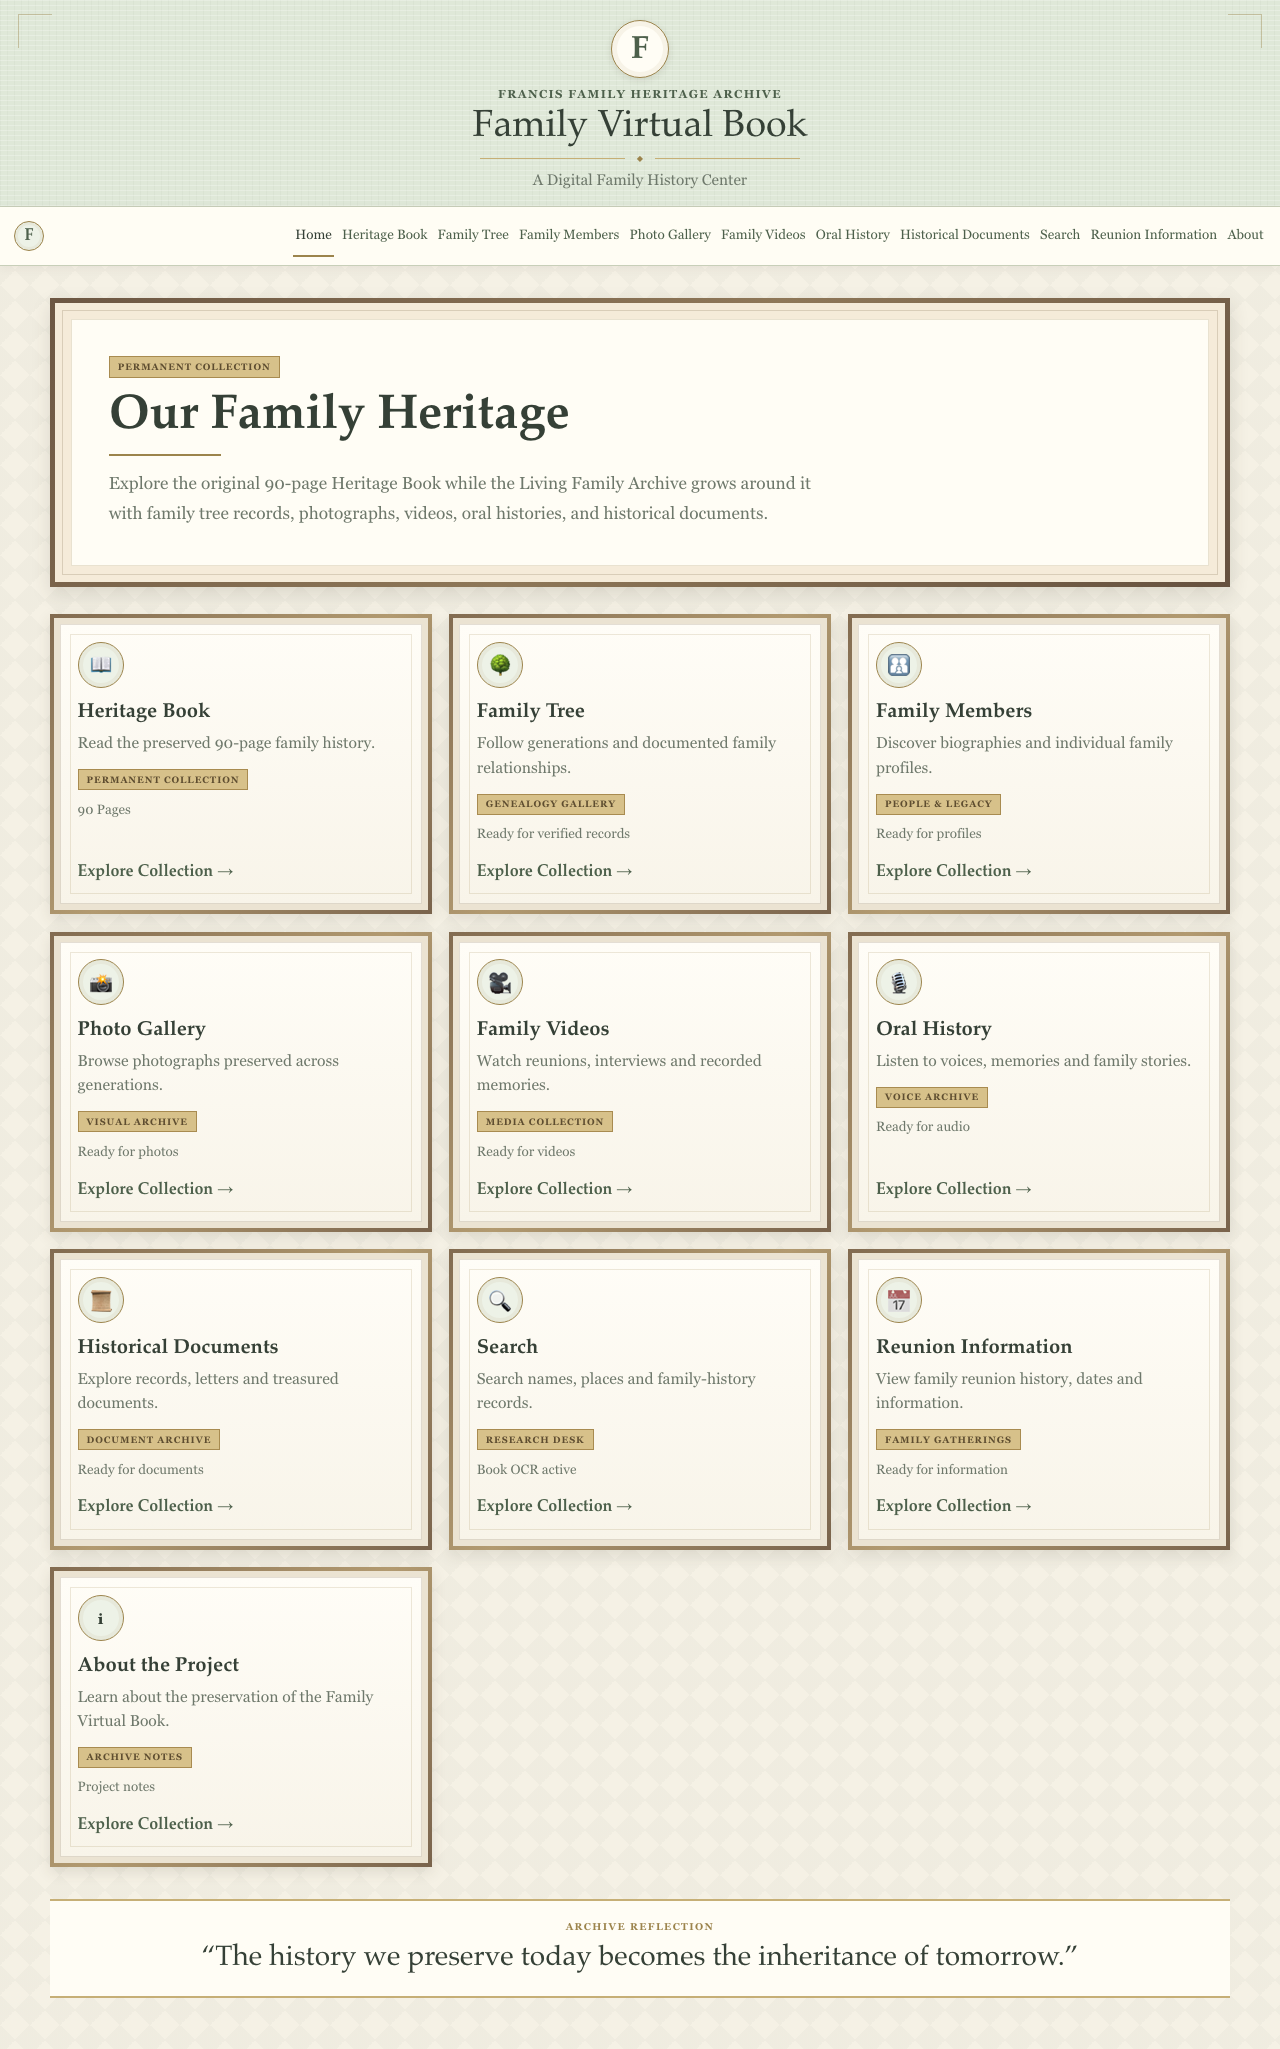
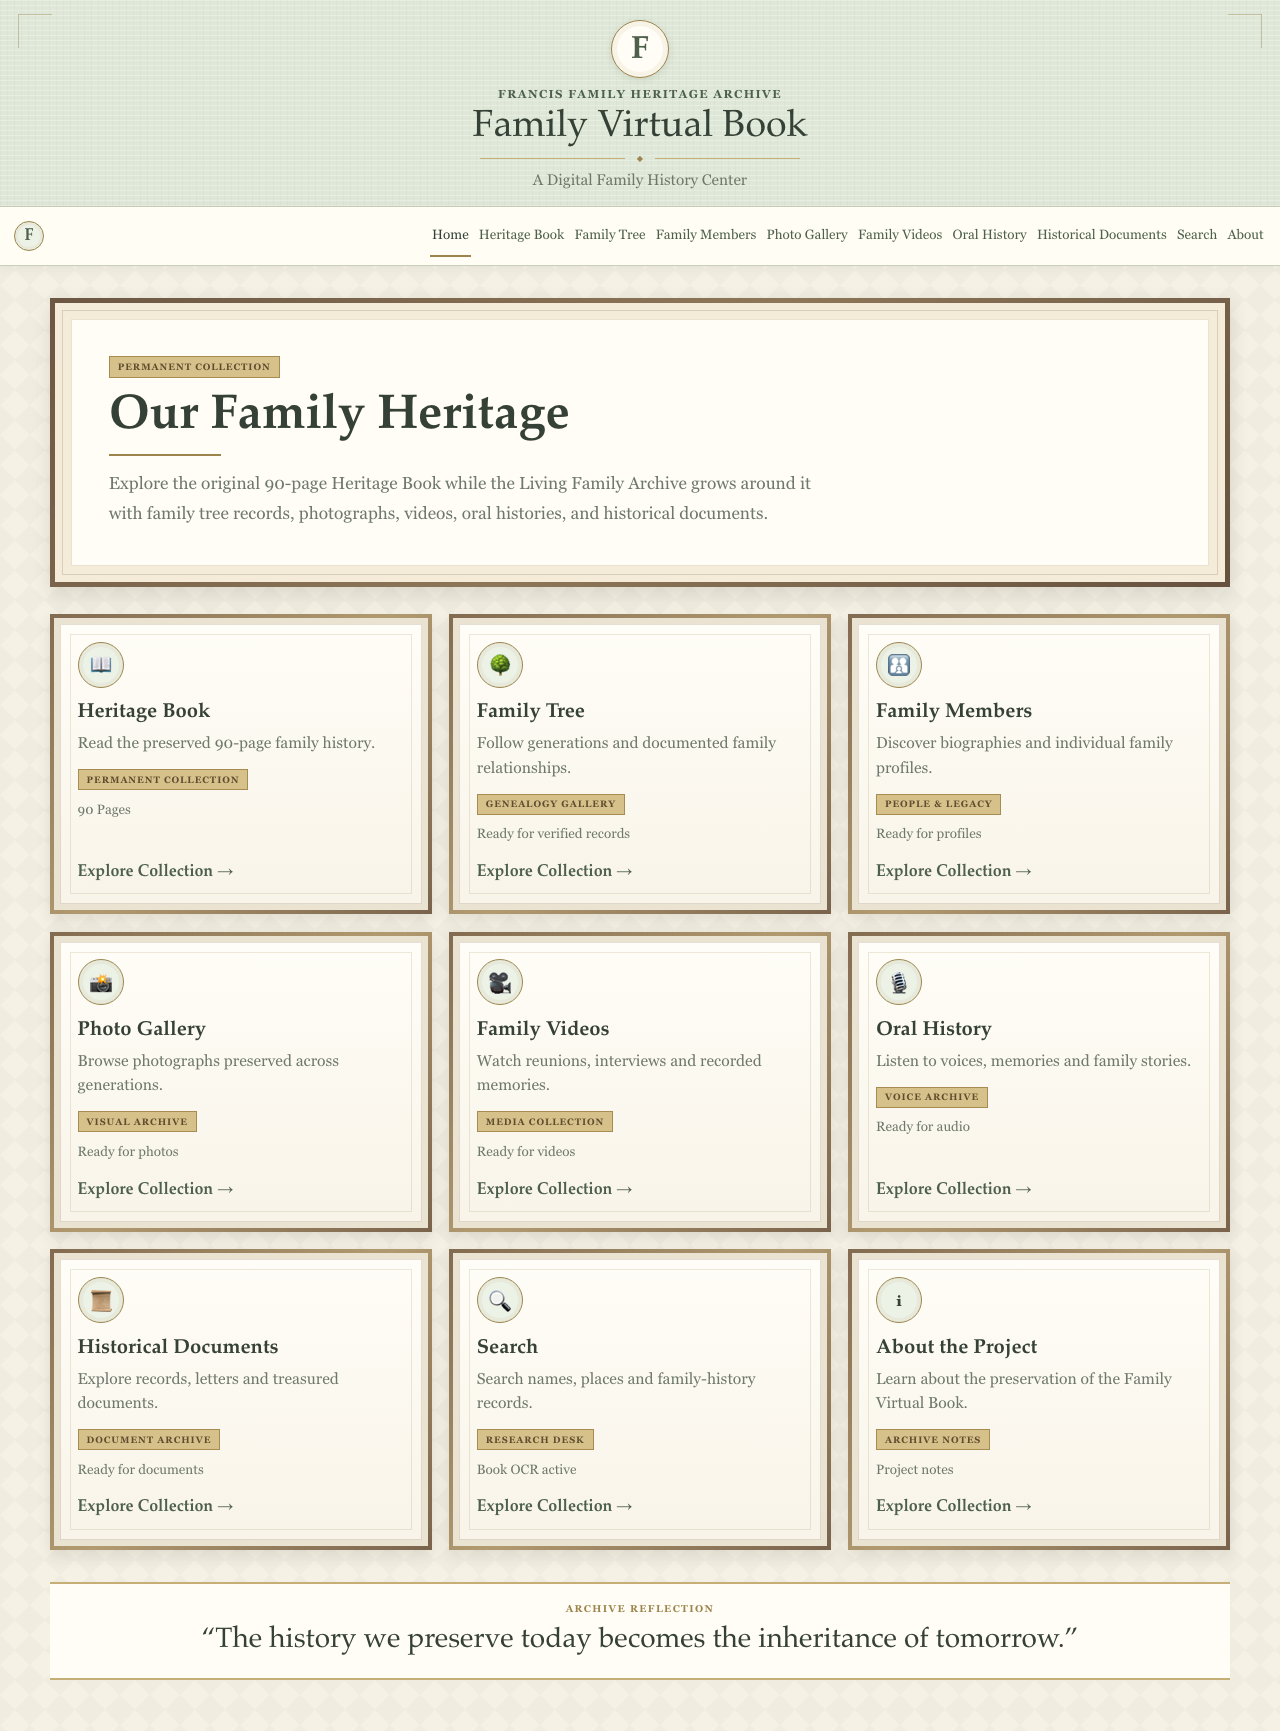
Remove reunion information from archive preview

Changed region(s): [[0.0, 0.0, 1.0, 0.9671], [0.9375, 0.8111, 0.9688, 0.9047]]

diff --git a/src/components/ArchiveSectionPage.tsx b/src/components/ArchiveSectionPage.tsx
@@ -232,30 +232,6 @@ export function HistoricalDocumentsPage() {
   );
 }
 
-export function ReunionInformationPage() {
-  return (
-    <EmptyArchiveSection
-      title="Reunion Information"
-      eyebrow="FAMILY GATHERINGS"
-      description="A prepared place for family reunion history, dates, announcements, and approved reunion media."
-      emptyTitle="No reunion information has been added yet."
-      emptyBody="This section is ready for future reunion dates, locations, announcements, photographs, and videos."
-      categories={[
-        "Next Reunion",
-        "Date",
-        "Location",
-        "Announcements",
-        "Schedule",
-        "Directions",
-        "Past Reunions",
-        "Reunion Photos",
-        "Reunion Videos",
-        "Memorial Information",
-      ]}
-    />
-  );
-}
-
 export function AboutProjectPage() {
   return (
     <div className="fvb-gallery-shell">

diff --git a/src/data/fvbFeatures.ts b/src/data/fvbFeatures.ts
@@ -82,16 +82,6 @@ export const FVB_FEATURES = [
     countLabel: "Book OCR active",
   },
   {
-    id: "reunion-information",
-    icon: FVB_FEATURE_ICONS.reunionInformation,
-    title: "Reunion Information",
-    plaque: "FAMILY GATHERINGS",
-    description: "View family reunion history, dates and information.",
-    path: "/reunion",
-    actionLabel: "Explore Collection",
-    countLabel: "Ready for information",
-  },
-  {
     id: "about-project",
     icon: FVB_FEATURE_ICONS.aboutProject,
     title: "About the Project",

diff --git a/src/main.tsx b/src/main.tsx
@@ -60,13 +60,6 @@ const routes = [
     },
   },
   {
-    path: "/reunion",
-    lazy: async () => {
-      const mod = await import("./components/ArchiveSectionPage");
-      return { Component: mod.ReunionInformationPage };
-    },
-  },
-  {
     path: "/about",
     lazy: async () => {
       const mod = await import("./components/ArchiveSectionPage");

diff --git a/src/components/FvbMuseumComponents.tsx b/src/components/FvbMuseumComponents.tsx
@@ -12,7 +12,6 @@ const navLinks = [
   { to: "/audio", label: "Oral History" },
   { to: "/documents", label: "Historical Documents" },
   { to: "/search", label: "Search" },
-  { to: "/reunion", label: "Reunion Information" },
   { to: "/about", label: "About" },
 ];
 

diff --git a/src/data/fvbFeatureIcons.ts b/src/data/fvbFeatureIcons.ts
@@ -7,6 +7,5 @@ export const FVB_FEATURE_ICONS = {
   oralHistory: "🎙",
   historicalDocuments: "📜",
   search: "🔍",
-  reunionInformation: "📅",
   aboutProject: "ℹ",
 } as const;
